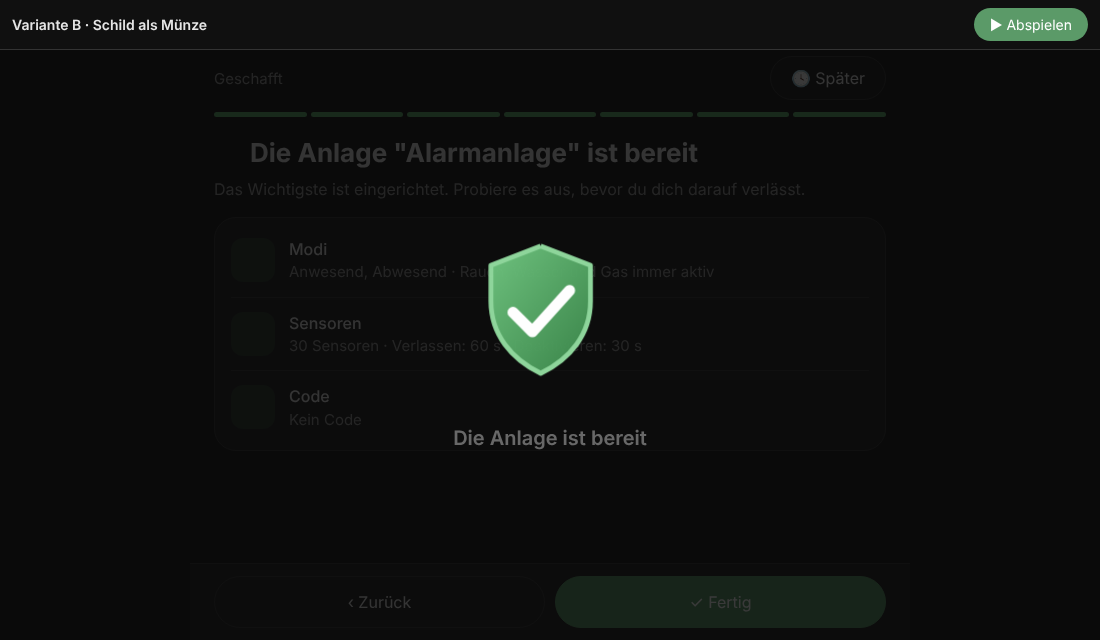
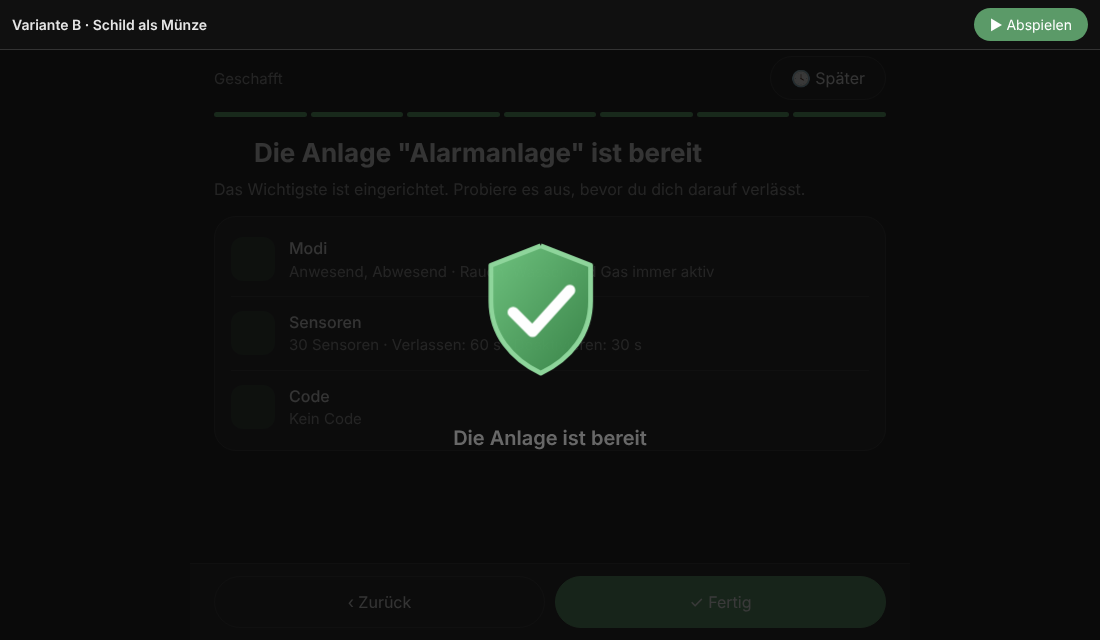
Mockups Einrichtung fertig: oben bleibt ein kleines Schild mit Haken statt eines Kreises
Claude-Session: https://claude.ai/code/session_01ALFh3oBmarxTwCL7WBAtR3

Changed region(s): [[0.2164, 0.2188, 0.6491, 0.2812]]

diff --git a/docs/mockups/einrichtung-fertig-v1/src/mockup.html b/docs/mockups/einrichtung-fertig-v1/src/mockup.html
@@ -50,7 +50,7 @@ svg { overflow:visible; }
 @keyframes bpulse { from { opacity:.7; transform:scale(.9) } to { opacity:0; transform:scale(2.1) } }
 .B .tag { position:absolute; left:50%; top:calc(50% + 92px); transform:translateX(-50%); font-size:20px; font-weight:600; opacity:0; animation:btag .4s ease 1.9s both; white-space:nowrap; }
 @keyframes btag { to { opacity:1 } }
-.chip { display:inline-flex; vertical-align:-4px; margin-right:8px; width:28px; height:28px; border-radius:50%; background:var(--ok2); align-items:center; justify-content:center; }
+.chip { display:inline-flex; vertical-align:-9px; margin:-8px 4px -8px 0; }
 .chip[hidden] { display:none; }
 
 /* ===== C: sieben Striche des Assistenten laufen als Ring, schliessen sich, Funken ===== */
@@ -82,7 +82,7 @@ svg { overflow:visible; }
 <div class="top"><small>Geschafft</small><div class="later">&#128339; Später</div></div>
 <div class="prog"><i></i><i></i><i></i><i></i><i></i><i></i><i></i></div>
 <div class="hero" id="hero"></div>
-<h2 id="title"><span class="chip" id="chip" hidden><svg width="16" height="16" viewBox="0 0 24 24"><path d="M5 12.5l4.5 4.5L19 7.5" fill="none" stroke="#fff" stroke-width="3" stroke-linecap="round" stroke-linejoin="round"/></svg></span>Die Anlage "Alarmanlage" ist bereit</h2>
+<h2 id="title"><span class="chip" id="chip" hidden><svg width="36" height="36" viewBox="0 0 120 120"><defs><linearGradient id="gr2" x1="0" y1="0" x2="1" y2="1"><stop offset="0" stop-color="#6fc27f"/><stop offset="1" stop-color="#3a8449"/></linearGradient></defs><path d="M60 12l36 14v26c0 24-15 42-36 52C39 94 24 76 24 52V26z" fill="url(#gr2)" stroke="#8fd69c" stroke-width="3.5" stroke-linejoin="round"/><path d="M40 60l14 14 27-30" fill="none" stroke="#fff" stroke-width="8" stroke-linecap="round" stroke-linejoin="round"/></svg></span>Die Anlage "Alarmanlage" ist bereit</h2>
 <p class="lead">Das Wichtigste ist eingerichtet. Probiere es aus, bevor du dich darauf verlässt.</p>
 <div class="card"><div class="row"><div class="ic"></div><div><b>Modi</b><span>Anwesend, Abwesend · Rauch, Wasser und Gas immer aktiv</span></div></div>
 <div class="row"><div class="ic"></div><div><b>Sensoren</b><span>30 Sensoren · Verlassen: 60 s · Deaktivieren: 30 s</span></div></div>
@@ -178,7 +178,7 @@ const CHECK = '<path class="chk" d="M38 62l16 16 30-34"/>';
     tl($("pulse"), [[0, "opacity:0; transform:scale(.95)"], [T0 + 380, "opacity:.7; transform:scale(.95)", "ease-out"], [T0 + 1280, "opacity:0; transform:scale(2.2)"], [total, "opacity:0; transform:scale(2.2)"]]);
     tl($("sheenr"), [[0, "transform:translateX(0px) skewX(-18deg)"], [T0 + 420, "transform:translateX(0px) skewX(-18deg)", "ease-in-out"], [T0 + 1120, "transform:translateX(260px) skewX(-18deg)"], [total, "transform:translateX(260px) skewX(-18deg)"]]);
     tl($("tag"), [[0, "opacity:0; transform:translate(-50%,6px)"], [T0 + 200, "opacity:0; transform:translate(-50%,6px)", "ease-out"], [T0 + 650, "opacity:1; transform:translate(-50%,0px)"], [TF - 100, "opacity:1; transform:translate(-50%,0px)"], [TF + 250, "opacity:0; transform:translate(-50%,0px)"], [total, "opacity:0; transform:translate(-50%,0px)"]]);
-    tl(chip, [[0, "opacity:0; transform:scale(.6)"], [TF + 560, "opacity:0; transform:scale(.6)", "ease-out"], [TF + 800, "opacity:1; transform:scale(1.15)"], [TF + 940, "opacity:1; transform:scale(1)"], [total, "opacity:1; transform:scale(1)"]]);
+    tl(chip, [[0, "opacity:0"], [TF + 560, "opacity:0"], [TF + 620, "opacity:1"], [total, "opacity:1"]]);
     const st = document.createElement("style"); st.id = "dyn"; st.textContent = css; document.head.appendChild(st);
   } else {
     let segs = "";

diff --git a/docs/mockups/einrichtung-fertig-v1/variante-a.html b/docs/mockups/einrichtung-fertig-v1/variante-a.html
@@ -50,7 +50,7 @@ svg { overflow:visible; }
 @keyframes bpulse { from { opacity:.7; transform:scale(.9) } to { opacity:0; transform:scale(2.1) } }
 .B .tag { position:absolute; left:50%; top:calc(50% + 92px); transform:translateX(-50%); font-size:20px; font-weight:600; opacity:0; animation:btag .4s ease 1.9s both; white-space:nowrap; }
 @keyframes btag { to { opacity:1 } }
-.chip { display:inline-flex; vertical-align:-4px; margin-right:8px; width:28px; height:28px; border-radius:50%; background:var(--ok2); align-items:center; justify-content:center; }
+.chip { display:inline-flex; vertical-align:-9px; margin:-8px 4px -8px 0; }
 .chip[hidden] { display:none; }
 
 /* ===== C: sieben Striche des Assistenten laufen als Ring, schliessen sich, Funken ===== */
@@ -82,7 +82,7 @@ svg { overflow:visible; }
 <div class="top"><small>Geschafft</small><div class="later">&#128339; Später</div></div>
 <div class="prog"><i></i><i></i><i></i><i></i><i></i><i></i><i></i></div>
 <div class="hero" id="hero"></div>
-<h2 id="title"><span class="chip" id="chip" hidden><svg width="16" height="16" viewBox="0 0 24 24"><path d="M5 12.5l4.5 4.5L19 7.5" fill="none" stroke="#fff" stroke-width="3" stroke-linecap="round" stroke-linejoin="round"/></svg></span>Die Anlage "Alarmanlage" ist bereit</h2>
+<h2 id="title"><span class="chip" id="chip" hidden><svg width="36" height="36" viewBox="0 0 120 120"><defs><linearGradient id="gr2" x1="0" y1="0" x2="1" y2="1"><stop offset="0" stop-color="#6fc27f"/><stop offset="1" stop-color="#3a8449"/></linearGradient></defs><path d="M60 12l36 14v26c0 24-15 42-36 52C39 94 24 76 24 52V26z" fill="url(#gr2)" stroke="#8fd69c" stroke-width="3.5" stroke-linejoin="round"/><path d="M40 60l14 14 27-30" fill="none" stroke="#fff" stroke-width="8" stroke-linecap="round" stroke-linejoin="round"/></svg></span>Die Anlage "Alarmanlage" ist bereit</h2>
 <p class="lead">Das Wichtigste ist eingerichtet. Probiere es aus, bevor du dich darauf verlässt.</p>
 <div class="card"><div class="row"><div class="ic"></div><div><b>Modi</b><span>Anwesend, Abwesend · Rauch, Wasser und Gas immer aktiv</span></div></div>
 <div class="row"><div class="ic"></div><div><b>Sensoren</b><span>30 Sensoren · Verlassen: 60 s · Deaktivieren: 30 s</span></div></div>
@@ -178,7 +178,7 @@ const CHECK = '<path class="chk" d="M38 62l16 16 30-34"/>';
     tl($("pulse"), [[0, "opacity:0; transform:scale(.95)"], [T0 + 380, "opacity:.7; transform:scale(.95)", "ease-out"], [T0 + 1280, "opacity:0; transform:scale(2.2)"], [total, "opacity:0; transform:scale(2.2)"]]);
     tl($("sheenr"), [[0, "transform:translateX(0px) skewX(-18deg)"], [T0 + 420, "transform:translateX(0px) skewX(-18deg)", "ease-in-out"], [T0 + 1120, "transform:translateX(260px) skewX(-18deg)"], [total, "transform:translateX(260px) skewX(-18deg)"]]);
     tl($("tag"), [[0, "opacity:0; transform:translate(-50%,6px)"], [T0 + 200, "opacity:0; transform:translate(-50%,6px)", "ease-out"], [T0 + 650, "opacity:1; transform:translate(-50%,0px)"], [TF - 100, "opacity:1; transform:translate(-50%,0px)"], [TF + 250, "opacity:0; transform:translate(-50%,0px)"], [total, "opacity:0; transform:translate(-50%,0px)"]]);
-    tl(chip, [[0, "opacity:0; transform:scale(.6)"], [TF + 560, "opacity:0; transform:scale(.6)", "ease-out"], [TF + 800, "opacity:1; transform:scale(1.15)"], [TF + 940, "opacity:1; transform:scale(1)"], [total, "opacity:1; transform:scale(1)"]]);
+    tl(chip, [[0, "opacity:0"], [TF + 560, "opacity:0"], [TF + 620, "opacity:1"], [total, "opacity:1"]]);
     const st = document.createElement("style"); st.id = "dyn"; st.textContent = css; document.head.appendChild(st);
   } else {
     let segs = "";

diff --git a/docs/mockups/einrichtung-fertig-v1/variante-b.html b/docs/mockups/einrichtung-fertig-v1/variante-b.html
@@ -50,7 +50,7 @@ svg { overflow:visible; }
 @keyframes bpulse { from { opacity:.7; transform:scale(.9) } to { opacity:0; transform:scale(2.1) } }
 .B .tag { position:absolute; left:50%; top:calc(50% + 92px); transform:translateX(-50%); font-size:20px; font-weight:600; opacity:0; animation:btag .4s ease 1.9s both; white-space:nowrap; }
 @keyframes btag { to { opacity:1 } }
-.chip { display:inline-flex; vertical-align:-4px; margin-right:8px; width:28px; height:28px; border-radius:50%; background:var(--ok2); align-items:center; justify-content:center; }
+.chip { display:inline-flex; vertical-align:-9px; margin:-8px 4px -8px 0; }
 .chip[hidden] { display:none; }
 
 /* ===== C: sieben Striche des Assistenten laufen als Ring, schliessen sich, Funken ===== */
@@ -82,7 +82,7 @@ svg { overflow:visible; }
 <div class="top"><small>Geschafft</small><div class="later">&#128339; Später</div></div>
 <div class="prog"><i></i><i></i><i></i><i></i><i></i><i></i><i></i></div>
 <div class="hero" id="hero"></div>
-<h2 id="title"><span class="chip" id="chip" hidden><svg width="16" height="16" viewBox="0 0 24 24"><path d="M5 12.5l4.5 4.5L19 7.5" fill="none" stroke="#fff" stroke-width="3" stroke-linecap="round" stroke-linejoin="round"/></svg></span>Die Anlage "Alarmanlage" ist bereit</h2>
+<h2 id="title"><span class="chip" id="chip" hidden><svg width="36" height="36" viewBox="0 0 120 120"><defs><linearGradient id="gr2" x1="0" y1="0" x2="1" y2="1"><stop offset="0" stop-color="#6fc27f"/><stop offset="1" stop-color="#3a8449"/></linearGradient></defs><path d="M60 12l36 14v26c0 24-15 42-36 52C39 94 24 76 24 52V26z" fill="url(#gr2)" stroke="#8fd69c" stroke-width="3.5" stroke-linejoin="round"/><path d="M40 60l14 14 27-30" fill="none" stroke="#fff" stroke-width="8" stroke-linecap="round" stroke-linejoin="round"/></svg></span>Die Anlage "Alarmanlage" ist bereit</h2>
 <p class="lead">Das Wichtigste ist eingerichtet. Probiere es aus, bevor du dich darauf verlässt.</p>
 <div class="card"><div class="row"><div class="ic"></div><div><b>Modi</b><span>Anwesend, Abwesend · Rauch, Wasser und Gas immer aktiv</span></div></div>
 <div class="row"><div class="ic"></div><div><b>Sensoren</b><span>30 Sensoren · Verlassen: 60 s · Deaktivieren: 30 s</span></div></div>
@@ -178,7 +178,7 @@ const CHECK = '<path class="chk" d="M38 62l16 16 30-34"/>';
     tl($("pulse"), [[0, "opacity:0; transform:scale(.95)"], [T0 + 380, "opacity:.7; transform:scale(.95)", "ease-out"], [T0 + 1280, "opacity:0; transform:scale(2.2)"], [total, "opacity:0; transform:scale(2.2)"]]);
     tl($("sheenr"), [[0, "transform:translateX(0px) skewX(-18deg)"], [T0 + 420, "transform:translateX(0px) skewX(-18deg)", "ease-in-out"], [T0 + 1120, "transform:translateX(260px) skewX(-18deg)"], [total, "transform:translateX(260px) skewX(-18deg)"]]);
     tl($("tag"), [[0, "opacity:0; transform:translate(-50%,6px)"], [T0 + 200, "opacity:0; transform:translate(-50%,6px)", "ease-out"], [T0 + 650, "opacity:1; transform:translate(-50%,0px)"], [TF - 100, "opacity:1; transform:translate(-50%,0px)"], [TF + 250, "opacity:0; transform:translate(-50%,0px)"], [total, "opacity:0; transform:translate(-50%,0px)"]]);
-    tl(chip, [[0, "opacity:0; transform:scale(.6)"], [TF + 560, "opacity:0; transform:scale(.6)", "ease-out"], [TF + 800, "opacity:1; transform:scale(1.15)"], [TF + 940, "opacity:1; transform:scale(1)"], [total, "opacity:1; transform:scale(1)"]]);
+    tl(chip, [[0, "opacity:0"], [TF + 560, "opacity:0"], [TF + 620, "opacity:1"], [total, "opacity:1"]]);
     const st = document.createElement("style"); st.id = "dyn"; st.textContent = css; document.head.appendChild(st);
   } else {
     let segs = "";

diff --git a/docs/mockups/einrichtung-fertig-v1/variante-c.html b/docs/mockups/einrichtung-fertig-v1/variante-c.html
@@ -50,7 +50,7 @@ svg { overflow:visible; }
 @keyframes bpulse { from { opacity:.7; transform:scale(.9) } to { opacity:0; transform:scale(2.1) } }
 .B .tag { position:absolute; left:50%; top:calc(50% + 92px); transform:translateX(-50%); font-size:20px; font-weight:600; opacity:0; animation:btag .4s ease 1.9s both; white-space:nowrap; }
 @keyframes btag { to { opacity:1 } }
-.chip { display:inline-flex; vertical-align:-4px; margin-right:8px; width:28px; height:28px; border-radius:50%; background:var(--ok2); align-items:center; justify-content:center; }
+.chip { display:inline-flex; vertical-align:-9px; margin:-8px 4px -8px 0; }
 .chip[hidden] { display:none; }
 
 /* ===== C: sieben Striche des Assistenten laufen als Ring, schliessen sich, Funken ===== */
@@ -82,7 +82,7 @@ svg { overflow:visible; }
 <div class="top"><small>Geschafft</small><div class="later">&#128339; Später</div></div>
 <div class="prog"><i></i><i></i><i></i><i></i><i></i><i></i><i></i></div>
 <div class="hero" id="hero"></div>
-<h2 id="title"><span class="chip" id="chip" hidden><svg width="16" height="16" viewBox="0 0 24 24"><path d="M5 12.5l4.5 4.5L19 7.5" fill="none" stroke="#fff" stroke-width="3" stroke-linecap="round" stroke-linejoin="round"/></svg></span>Die Anlage "Alarmanlage" ist bereit</h2>
+<h2 id="title"><span class="chip" id="chip" hidden><svg width="36" height="36" viewBox="0 0 120 120"><defs><linearGradient id="gr2" x1="0" y1="0" x2="1" y2="1"><stop offset="0" stop-color="#6fc27f"/><stop offset="1" stop-color="#3a8449"/></linearGradient></defs><path d="M60 12l36 14v26c0 24-15 42-36 52C39 94 24 76 24 52V26z" fill="url(#gr2)" stroke="#8fd69c" stroke-width="3.5" stroke-linejoin="round"/><path d="M40 60l14 14 27-30" fill="none" stroke="#fff" stroke-width="8" stroke-linecap="round" stroke-linejoin="round"/></svg></span>Die Anlage "Alarmanlage" ist bereit</h2>
 <p class="lead">Das Wichtigste ist eingerichtet. Probiere es aus, bevor du dich darauf verlässt.</p>
 <div class="card"><div class="row"><div class="ic"></div><div><b>Modi</b><span>Anwesend, Abwesend · Rauch, Wasser und Gas immer aktiv</span></div></div>
 <div class="row"><div class="ic"></div><div><b>Sensoren</b><span>30 Sensoren · Verlassen: 60 s · Deaktivieren: 30 s</span></div></div>
@@ -178,7 +178,7 @@ const CHECK = '<path class="chk" d="M38 62l16 16 30-34"/>';
     tl($("pulse"), [[0, "opacity:0; transform:scale(.95)"], [T0 + 380, "opacity:.7; transform:scale(.95)", "ease-out"], [T0 + 1280, "opacity:0; transform:scale(2.2)"], [total, "opacity:0; transform:scale(2.2)"]]);
     tl($("sheenr"), [[0, "transform:translateX(0px) skewX(-18deg)"], [T0 + 420, "transform:translateX(0px) skewX(-18deg)", "ease-in-out"], [T0 + 1120, "transform:translateX(260px) skewX(-18deg)"], [total, "transform:translateX(260px) skewX(-18deg)"]]);
     tl($("tag"), [[0, "opacity:0; transform:translate(-50%,6px)"], [T0 + 200, "opacity:0; transform:translate(-50%,6px)", "ease-out"], [T0 + 650, "opacity:1; transform:translate(-50%,0px)"], [TF - 100, "opacity:1; transform:translate(-50%,0px)"], [TF + 250, "opacity:0; transform:translate(-50%,0px)"], [total, "opacity:0; transform:translate(-50%,0px)"]]);
-    tl(chip, [[0, "opacity:0; transform:scale(.6)"], [TF + 560, "opacity:0; transform:scale(.6)", "ease-out"], [TF + 800, "opacity:1; transform:scale(1.15)"], [TF + 940, "opacity:1; transform:scale(1)"], [total, "opacity:1; transform:scale(1)"]]);
+    tl(chip, [[0, "opacity:0"], [TF + 560, "opacity:0"], [TF + 620, "opacity:1"], [total, "opacity:1"]]);
     const st = document.createElement("style"); st.id = "dyn"; st.textContent = css; document.head.appendChild(st);
   } else {
     let segs = "";

diff --git a/docs/mockups/einrichtung-fertig-v1/variante-d.html b/docs/mockups/einrichtung-fertig-v1/variante-d.html
@@ -50,7 +50,7 @@ svg { overflow:visible; }
 @keyframes bpulse { from { opacity:.7; transform:scale(.9) } to { opacity:0; transform:scale(2.1) } }
 .B .tag { position:absolute; left:50%; top:calc(50% + 92px); transform:translateX(-50%); font-size:20px; font-weight:600; opacity:0; animation:btag .4s ease 1.9s both; white-space:nowrap; }
 @keyframes btag { to { opacity:1 } }
-.chip { display:inline-flex; vertical-align:-4px; margin-right:8px; width:28px; height:28px; border-radius:50%; background:var(--ok2); align-items:center; justify-content:center; }
+.chip { display:inline-flex; vertical-align:-9px; margin:-8px 4px -8px 0; }
 .chip[hidden] { display:none; }
 
 /* ===== C: sieben Striche des Assistenten laufen als Ring, schliessen sich, Funken ===== */
@@ -82,7 +82,7 @@ svg { overflow:visible; }
 <div class="top"><small>Geschafft</small><div class="later">&#128339; Später</div></div>
 <div class="prog"><i></i><i></i><i></i><i></i><i></i><i></i><i></i></div>
 <div class="hero" id="hero"></div>
-<h2 id="title"><span class="chip" id="chip" hidden><svg width="16" height="16" viewBox="0 0 24 24"><path d="M5 12.5l4.5 4.5L19 7.5" fill="none" stroke="#fff" stroke-width="3" stroke-linecap="round" stroke-linejoin="round"/></svg></span>Die Anlage "Alarmanlage" ist bereit</h2>
+<h2 id="title"><span class="chip" id="chip" hidden><svg width="36" height="36" viewBox="0 0 120 120"><defs><linearGradient id="gr2" x1="0" y1="0" x2="1" y2="1"><stop offset="0" stop-color="#6fc27f"/><stop offset="1" stop-color="#3a8449"/></linearGradient></defs><path d="M60 12l36 14v26c0 24-15 42-36 52C39 94 24 76 24 52V26z" fill="url(#gr2)" stroke="#8fd69c" stroke-width="3.5" stroke-linejoin="round"/><path d="M40 60l14 14 27-30" fill="none" stroke="#fff" stroke-width="8" stroke-linecap="round" stroke-linejoin="round"/></svg></span>Die Anlage "Alarmanlage" ist bereit</h2>
 <p class="lead">Das Wichtigste ist eingerichtet. Probiere es aus, bevor du dich darauf verlässt.</p>
 <div class="card"><div class="row"><div class="ic"></div><div><b>Modi</b><span>Anwesend, Abwesend · Rauch, Wasser und Gas immer aktiv</span></div></div>
 <div class="row"><div class="ic"></div><div><b>Sensoren</b><span>30 Sensoren · Verlassen: 60 s · Deaktivieren: 30 s</span></div></div>
@@ -178,7 +178,7 @@ const CHECK = '<path class="chk" d="M38 62l16 16 30-34"/>';
     tl($("pulse"), [[0, "opacity:0; transform:scale(.95)"], [T0 + 380, "opacity:.7; transform:scale(.95)", "ease-out"], [T0 + 1280, "opacity:0; transform:scale(2.2)"], [total, "opacity:0; transform:scale(2.2)"]]);
     tl($("sheenr"), [[0, "transform:translateX(0px) skewX(-18deg)"], [T0 + 420, "transform:translateX(0px) skewX(-18deg)", "ease-in-out"], [T0 + 1120, "transform:translateX(260px) skewX(-18deg)"], [total, "transform:translateX(260px) skewX(-18deg)"]]);
     tl($("tag"), [[0, "opacity:0; transform:translate(-50%,6px)"], [T0 + 200, "opacity:0; transform:translate(-50%,6px)", "ease-out"], [T0 + 650, "opacity:1; transform:translate(-50%,0px)"], [TF - 100, "opacity:1; transform:translate(-50%,0px)"], [TF + 250, "opacity:0; transform:translate(-50%,0px)"], [total, "opacity:0; transform:translate(-50%,0px)"]]);
-    tl(chip, [[0, "opacity:0; transform:scale(.6)"], [TF + 560, "opacity:0; transform:scale(.6)", "ease-out"], [TF + 800, "opacity:1; transform:scale(1.15)"], [TF + 940, "opacity:1; transform:scale(1)"], [total, "opacity:1; transform:scale(1)"]]);
+    tl(chip, [[0, "opacity:0"], [TF + 560, "opacity:0"], [TF + 620, "opacity:1"], [total, "opacity:1"]]);
     const st = document.createElement("style"); st.id = "dyn"; st.textContent = css; document.head.appendChild(st);
   } else {
     let segs = "";

diff --git a/docs/mockups/einrichtung-fertig-v1/variante-e.html b/docs/mockups/einrichtung-fertig-v1/variante-e.html
@@ -50,7 +50,7 @@ svg { overflow:visible; }
 @keyframes bpulse { from { opacity:.7; transform:scale(.9) } to { opacity:0; transform:scale(2.1) } }
 .B .tag { position:absolute; left:50%; top:calc(50% + 92px); transform:translateX(-50%); font-size:20px; font-weight:600; opacity:0; animation:btag .4s ease 1.9s both; white-space:nowrap; }
 @keyframes btag { to { opacity:1 } }
-.chip { display:inline-flex; vertical-align:-4px; margin-right:8px; width:28px; height:28px; border-radius:50%; background:var(--ok2); align-items:center; justify-content:center; }
+.chip { display:inline-flex; vertical-align:-9px; margin:-8px 4px -8px 0; }
 .chip[hidden] { display:none; }
 
 /* ===== C: sieben Striche des Assistenten laufen als Ring, schliessen sich, Funken ===== */
@@ -82,7 +82,7 @@ svg { overflow:visible; }
 <div class="top"><small>Geschafft</small><div class="later">&#128339; Später</div></div>
 <div class="prog"><i></i><i></i><i></i><i></i><i></i><i></i><i></i></div>
 <div class="hero" id="hero"></div>
-<h2 id="title"><span class="chip" id="chip" hidden><svg width="16" height="16" viewBox="0 0 24 24"><path d="M5 12.5l4.5 4.5L19 7.5" fill="none" stroke="#fff" stroke-width="3" stroke-linecap="round" stroke-linejoin="round"/></svg></span>Die Anlage "Alarmanlage" ist bereit</h2>
+<h2 id="title"><span class="chip" id="chip" hidden><svg width="36" height="36" viewBox="0 0 120 120"><defs><linearGradient id="gr2" x1="0" y1="0" x2="1" y2="1"><stop offset="0" stop-color="#6fc27f"/><stop offset="1" stop-color="#3a8449"/></linearGradient></defs><path d="M60 12l36 14v26c0 24-15 42-36 52C39 94 24 76 24 52V26z" fill="url(#gr2)" stroke="#8fd69c" stroke-width="3.5" stroke-linejoin="round"/><path d="M40 60l14 14 27-30" fill="none" stroke="#fff" stroke-width="8" stroke-linecap="round" stroke-linejoin="round"/></svg></span>Die Anlage "Alarmanlage" ist bereit</h2>
 <p class="lead">Das Wichtigste ist eingerichtet. Probiere es aus, bevor du dich darauf verlässt.</p>
 <div class="card"><div class="row"><div class="ic"></div><div><b>Modi</b><span>Anwesend, Abwesend · Rauch, Wasser und Gas immer aktiv</span></div></div>
 <div class="row"><div class="ic"></div><div><b>Sensoren</b><span>30 Sensoren · Verlassen: 60 s · Deaktivieren: 30 s</span></div></div>
@@ -178,7 +178,7 @@ const CHECK = '<path class="chk" d="M38 62l16 16 30-34"/>';
     tl($("pulse"), [[0, "opacity:0; transform:scale(.95)"], [T0 + 380, "opacity:.7; transform:scale(.95)", "ease-out"], [T0 + 1280, "opacity:0; transform:scale(2.2)"], [total, "opacity:0; transform:scale(2.2)"]]);
     tl($("sheenr"), [[0, "transform:translateX(0px) skewX(-18deg)"], [T0 + 420, "transform:translateX(0px) skewX(-18deg)", "ease-in-out"], [T0 + 1120, "transform:translateX(260px) skewX(-18deg)"], [total, "transform:translateX(260px) skewX(-18deg)"]]);
     tl($("tag"), [[0, "opacity:0; transform:translate(-50%,6px)"], [T0 + 200, "opacity:0; transform:translate(-50%,6px)", "ease-out"], [T0 + 650, "opacity:1; transform:translate(-50%,0px)"], [TF - 100, "opacity:1; transform:translate(-50%,0px)"], [TF + 250, "opacity:0; transform:translate(-50%,0px)"], [total, "opacity:0; transform:translate(-50%,0px)"]]);
-    tl(chip, [[0, "opacity:0; transform:scale(.6)"], [TF + 560, "opacity:0; transform:scale(.6)", "ease-out"], [TF + 800, "opacity:1; transform:scale(1.15)"], [TF + 940, "opacity:1; transform:scale(1)"], [total, "opacity:1; transform:scale(1)"]]);
+    tl(chip, [[0, "opacity:0"], [TF + 560, "opacity:0"], [TF + 620, "opacity:1"], [total, "opacity:1"]]);
     const st = document.createElement("style"); st.id = "dyn"; st.textContent = css; document.head.appendChild(st);
   } else {
     let segs = "";

diff --git a/docs/mockups/einrichtung-fertig-v1/variante-f.html b/docs/mockups/einrichtung-fertig-v1/variante-f.html
@@ -50,7 +50,7 @@ svg { overflow:visible; }
 @keyframes bpulse { from { opacity:.7; transform:scale(.9) } to { opacity:0; transform:scale(2.1) } }
 .B .tag { position:absolute; left:50%; top:calc(50% + 92px); transform:translateX(-50%); font-size:20px; font-weight:600; opacity:0; animation:btag .4s ease 1.9s both; white-space:nowrap; }
 @keyframes btag { to { opacity:1 } }
-.chip { display:inline-flex; vertical-align:-4px; margin-right:8px; width:28px; height:28px; border-radius:50%; background:var(--ok2); align-items:center; justify-content:center; }
+.chip { display:inline-flex; vertical-align:-9px; margin:-8px 4px -8px 0; }
 .chip[hidden] { display:none; }
 
 /* ===== C: sieben Striche des Assistenten laufen als Ring, schliessen sich, Funken ===== */
@@ -82,7 +82,7 @@ svg { overflow:visible; }
 <div class="top"><small>Geschafft</small><div class="later">&#128339; Später</div></div>
 <div class="prog"><i></i><i></i><i></i><i></i><i></i><i></i><i></i></div>
 <div class="hero" id="hero"></div>
-<h2 id="title"><span class="chip" id="chip" hidden><svg width="16" height="16" viewBox="0 0 24 24"><path d="M5 12.5l4.5 4.5L19 7.5" fill="none" stroke="#fff" stroke-width="3" stroke-linecap="round" stroke-linejoin="round"/></svg></span>Die Anlage "Alarmanlage" ist bereit</h2>
+<h2 id="title"><span class="chip" id="chip" hidden><svg width="36" height="36" viewBox="0 0 120 120"><defs><linearGradient id="gr2" x1="0" y1="0" x2="1" y2="1"><stop offset="0" stop-color="#6fc27f"/><stop offset="1" stop-color="#3a8449"/></linearGradient></defs><path d="M60 12l36 14v26c0 24-15 42-36 52C39 94 24 76 24 52V26z" fill="url(#gr2)" stroke="#8fd69c" stroke-width="3.5" stroke-linejoin="round"/><path d="M40 60l14 14 27-30" fill="none" stroke="#fff" stroke-width="8" stroke-linecap="round" stroke-linejoin="round"/></svg></span>Die Anlage "Alarmanlage" ist bereit</h2>
 <p class="lead">Das Wichtigste ist eingerichtet. Probiere es aus, bevor du dich darauf verlässt.</p>
 <div class="card"><div class="row"><div class="ic"></div><div><b>Modi</b><span>Anwesend, Abwesend · Rauch, Wasser und Gas immer aktiv</span></div></div>
 <div class="row"><div class="ic"></div><div><b>Sensoren</b><span>30 Sensoren · Verlassen: 60 s · Deaktivieren: 30 s</span></div></div>
@@ -178,7 +178,7 @@ const CHECK = '<path class="chk" d="M38 62l16 16 30-34"/>';
     tl($("pulse"), [[0, "opacity:0; transform:scale(.95)"], [T0 + 380, "opacity:.7; transform:scale(.95)", "ease-out"], [T0 + 1280, "opacity:0; transform:scale(2.2)"], [total, "opacity:0; transform:scale(2.2)"]]);
     tl($("sheenr"), [[0, "transform:translateX(0px) skewX(-18deg)"], [T0 + 420, "transform:translateX(0px) skewX(-18deg)", "ease-in-out"], [T0 + 1120, "transform:translateX(260px) skewX(-18deg)"], [total, "transform:translateX(260px) skewX(-18deg)"]]);
     tl($("tag"), [[0, "opacity:0; transform:translate(-50%,6px)"], [T0 + 200, "opacity:0; transform:translate(-50%,6px)", "ease-out"], [T0 + 650, "opacity:1; transform:translate(-50%,0px)"], [TF - 100, "opacity:1; transform:translate(-50%,0px)"], [TF + 250, "opacity:0; transform:translate(-50%,0px)"], [total, "opacity:0; transform:translate(-50%,0px)"]]);
-    tl(chip, [[0, "opacity:0; transform:scale(.6)"], [TF + 560, "opacity:0; transform:scale(.6)", "ease-out"], [TF + 800, "opacity:1; transform:scale(1.15)"], [TF + 940, "opacity:1; transform:scale(1)"], [total, "opacity:1; transform:scale(1)"]]);
+    tl(chip, [[0, "opacity:0"], [TF + 560, "opacity:0"], [TF + 620, "opacity:1"], [total, "opacity:1"]]);
     const st = document.createElement("style"); st.id = "dyn"; st.textContent = css; document.head.appendChild(st);
   } else {
     let segs = "";
